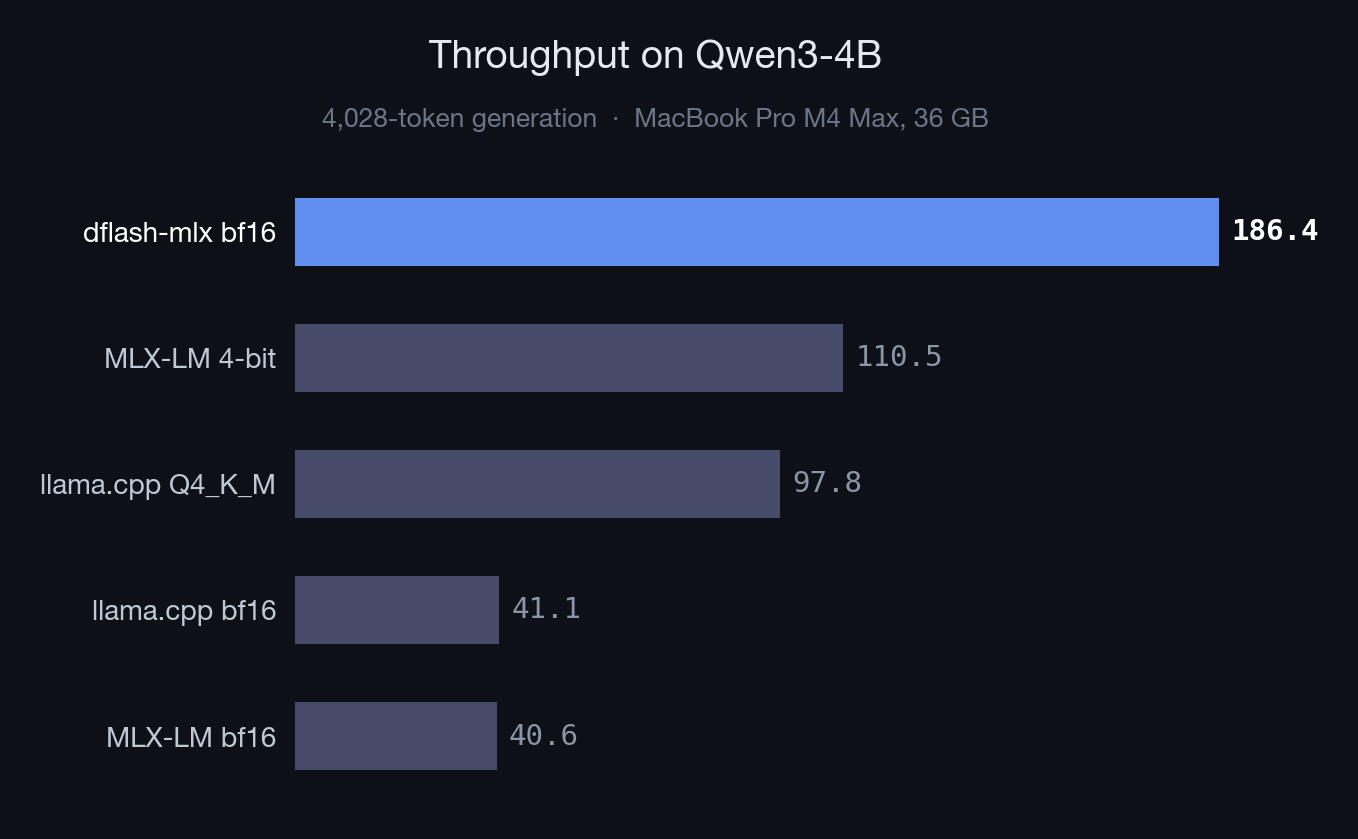
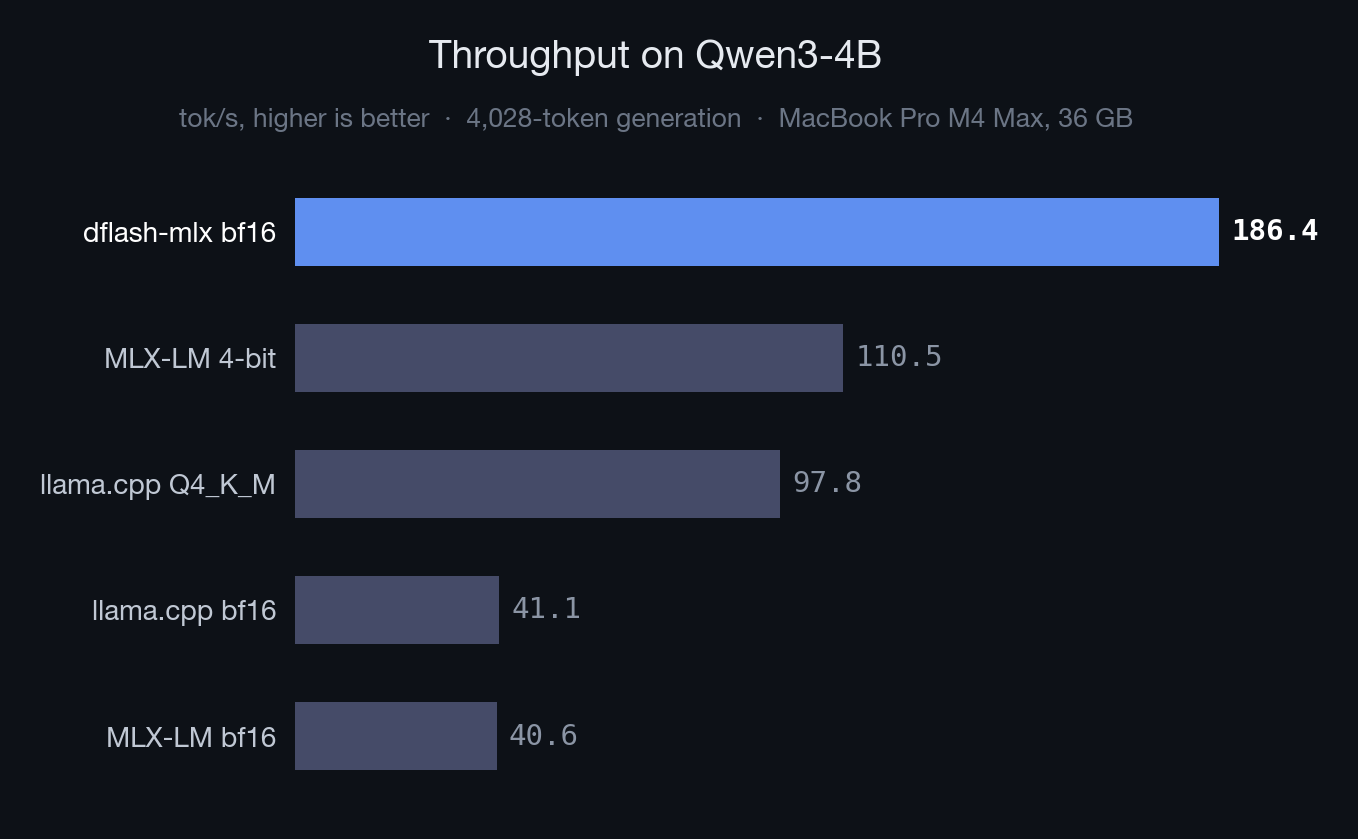
Add tok/s metric to chart subtitle

Changed region(s): [[0.1237, 0.124, 0.8351, 0.1549]]

diff --git a/scripts/generate_benchmark_chart.py b/scripts/generate_benchmark_chart.py
@@ -79,7 +79,7 @@ fig.text(
 fig.text(
     0.5,
     0.88,
-    "4,028-token generation  \u00b7  MacBook Pro M4 Max, 36 GB",
+    "tok/s, higher is better  \u00b7  4,028-token generation  \u00b7  MacBook Pro M4 Max, 36 GB",
     fontsize=9.5,
     color="#6b7585",
     ha="center",
